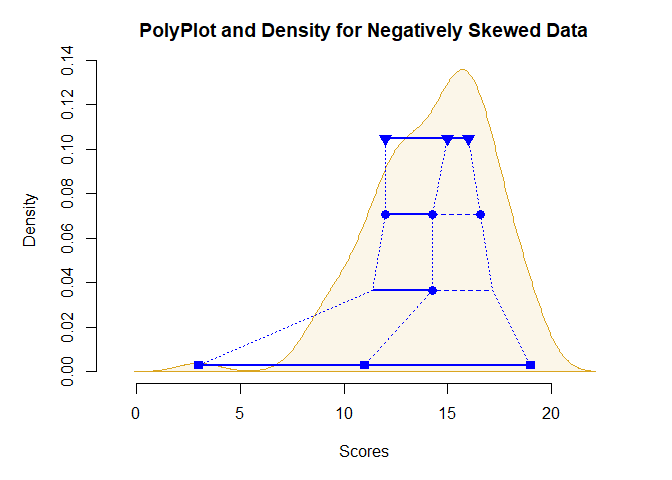
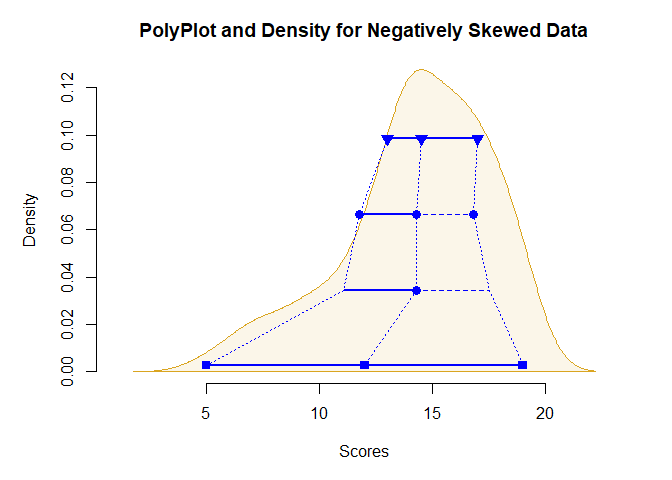
Updated vignettes

diff --git a/docs/polyPlot2Advanced.md b/docs/polyPlot2Advanced.md
@@ -1,25 +1,36 @@
-## Advanced Tutorial for PolyPlot2
 
-The following code demonstrates some of the available options for customizing the PolyPlot. It also demonstrates how the PolyPlot does a good job of approximating the shape of the underlying distribution.
+## Advanced Tutorial for polyPlot2
+
+The following code demonstrates some of the available options for
+customizing the PolyPlot. It also demonstrates how the PolyPlot does a
+good job of approximating the shape of the underlying distribution.
+
+- [The PolyPlot for Positively Skewed
+  Data](#the-polyplot-for-positively-skewed-data)
+- [The PolyPlot for Negatively Skewed
+  Data](#the-polyplot-for-negatively-skewed-data)
+- [The PolyPlot for Bimodal Data](#the-polyplot-for-bimodal-data)
+
+------------------------------------------------------------------------
 
 ### The PolyPlot for Positively Skewed Data
 
-Simulate some positively skewed data. Then use `polyStats` get the values separate from the `polyPlot` (which in this case features a frequency histogram).
+Simulate some positively skewed data. Then use `polyStats` get the
+values separate from the `polyPlot` (which in this case features a
+frequency histogram).
 
-```r
+``` r
 Scores <- round(rbeta(100,2,5)*20,0)
 polyStats(Scores,digits=3)
 ```
 
-```
-##           Lower Middle  Upper Spread
-## Quartiles 3.000   5.00  8.000  2.500
-## Means     3.260   5.94  8.620  2.680
-## Z Scores  2.668   5.94  9.212  3.272
-## Range     1.000   8.50 16.000  7.500
-```
+    ##           Lower Middle  Upper Spread
+    ## Quartiles 4.000   6.00  7.000  1.500
+    ## Means     3.520   5.67  7.820  2.150
+    ## Z Scores  2.921   5.67  8.419  2.749
+    ## Range     1.000   8.00 15.000  7.000
 
-```r
+``` r
 polyPlot(Scores,type="frequency",col="blue",bg="goldenrod",values=FALSE,main="PolyPlot and Histogram for Positively Skewed Data")
 ```
 
@@ -27,22 +38,22 @@ polyPlot(Scores,type="frequency",col="blue",bg="goldenrod",values=FALSE,main="Po
 
 ### The PolyPlot for Negatively Skewed Data
 
-Simulate some negatively skewed data. Then use `polyStats` get the values separate from the `polyPlot` (which in this case features a density curve).
+Simulate some negatively skewed data. Then use `polyStats` get the
+values separate from the `polyPlot` (which in this case features a
+density curve).
 
-```r
+``` r
 Scores <- round(rbeta(100,5,2)*20,0)
 polyStats(Scores,digits=3)
 ```
 
-```
-##            Lower Middle  Upper Spread
-## Quartiles 12.000  15.00 16.000  2.000
-## Means     11.700  14.16 16.620  2.460
-## Z Scores  11.089  14.16 17.231  3.071
-## Range      6.000  13.00 20.000  7.000
-```
+    ##            Lower Middle  Upper Spread
+    ## Quartiles 13.000  14.50 17.000  2.000
+    ## Means     11.760  14.28 16.800  2.520
+    ## Z Scores  11.042  14.28 17.518  3.238
+    ## Range      5.000  12.00 19.000  7.000
 
-```r
+``` r
 polyPlot(Scores,type="density",col="blue",bg="goldenrod",values=FALSE,main="PolyPlot and Density for Negatively Skewed Data")
 ```
 
@@ -50,16 +61,17 @@ polyPlot(Scores,type="density",col="blue",bg="goldenrod",values=FALSE,main="Poly
 
 ### The PolyPlot for Bimodal Data
 
-Simulate some bimodal data. The values are presented on each `polyPlot` to show their utility in explaining the underlying data.
+Simulate some bimodal data. The values are presented on each `polyPlot`
+to show their utility in explaining the underlying data.
 
-```r
+``` r
 Scores <- c(round(rnorm(50,7,1),0),round(rnorm(50,13,1),0))
 polyPlot(Scores,type="frequency",col="blue",bg="goldenrod",values=TRUE,main="PolyPlot and Histogram for Bimodal Data")
 ```
 
 ![](figures/Advanced-Bimodal-1.png)<!-- -->
 
-```r
+``` r
 polyPlot(Scores,type="density",col="blue",bg="goldenrod",values=TRUE,main="PolyPlot and Density for Bimodal Data")
 ```
 

diff --git a/docs/polyPlot2Basic.md b/docs/polyPlot2Basic.md
@@ -1,39 +1,58 @@
-## Basic Tutorial for PolyPlot2
 
-The following codes demonstrates the default options of PolyPlot. It also explains the basic statistics used.
+## Basic Tutorial for polyPlot2
+
+The following codes demonstrates the default options of PolyPlot. It
+also explains the basic statistics used.
+
+- [The PolyPlot](#the-polyplot)
+- [Adding Background Plots](#adding-background-plots)
+
+------------------------------------------------------------------------
 
 ### The PolyPlot
 
-First, simulate a set of 100 scores from a normal distribution. Then call `polyPlot` to get the plot.
+First, simulate a set of 100 scores from a normal distribution. Then
+call `polyPlot` to get the plot.
 
-```r
+``` r
 Scores <- round(rnorm(100,10,2),0)
 polyPlot(Scores)
 ```
 
 ![](figures/Basic-Default-1.png)<!-- -->
 
-Generally speaking, each level/row provides a different category of measures of location and spread:
+Generally speaking, each level/row provides a different category of
+measures of location and spread:
 
-- First/Top: Provides the quartiles (and median as the center) of the distribution, with the interquartile range divided by 2 as the measure of spread
-- Second: Provides the means of the halves (and the whole set as the center) of the distribution, with the mean absolute deviation from the median as the measure of spread
-- Third: Provides the mean (as the center) of the distribution and points +/- one standard deviation from the mean (i.e, z scores of -1 and 1), with the standard deviation as the measure of spread
-- Fourth/Bottom: Provides the range (and midrange as the center) of the distribution, with the range divided by 2 as the measure of spread
+- First/Top: Provides the quartiles (and median as the center) of the
+  distribution, with the interquartile range divided by 2 as the measure
+  of spread
+- Second: Provides the means of the halves (and the whole set as the
+  center) of the distribution, with the mean absolute deviation from the
+  median as the measure of spread
+- Third: Provides the mean (as the center) of the distribution and
+  points +/- one standard deviation from the mean (i.e, z scores of -1
+  and 1), with the standard deviation as the measure of spread
+- Fourth/Bottom: Provides the range (and midrange as the center) of the
+  distribution, with the range divided by 2 as the measure of spread
 
 ### Adding Background Plots
 
-To see the relationship between the PolyPlot and the underlying distribution, either a frequency distribution (histogram) or a density curve can be added in the background.
+To see the relationship between the PolyPlot and the underlying
+distribution, either a frequency distribution (histogram) or a density
+curve can be added in the background.
 
-```r
+``` r
 polyPlot(Scores,type="frequency")
 ```
 
 ![](figures/Basic-Background-1.png)<!-- -->
 
-```r
+``` r
 polyPlot(Scores,type="density")
 ```
 
 ![](figures/Basic-Background-2.png)<!-- -->
 
-Further explanation of the math behind the PolyPlot is available in Seier and Bonett (2011).
+Further explanation of the math behind the PolyPlot is available in
+Seier and Bonett (2011).
